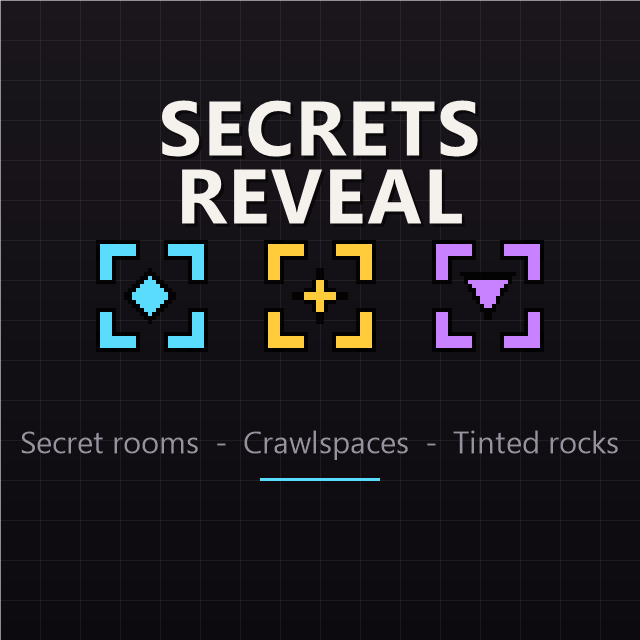
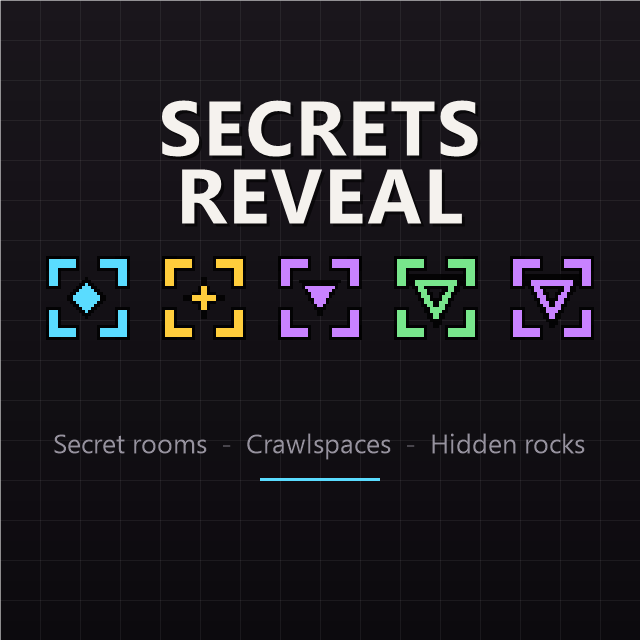
Refresh the Workshop art for the five-marker set
The preview still advertised three markers. Regenerate it from the current
sheet, reading the tile count from the sheet width so adding a marker no
longer needs an edit here, and auto-shrink the subtitle so rewording it
cannot silently clip off the edge.

Replace the gallery captures with the new side-by-side pairs, including one
showing the crawlspace prediction end to end. Repoint the README at them: it
had been pointing at files that an earlier `git add -A` quietly deleted, so
both images were broken on GitHub.

Changed region(s): [[0.0625, 0.375, 0.9375, 0.5625], [0.375, 0.6562, 0.9688, 0.7188], [0.0312, 0.6562, 0.3438, 0.7188]]

diff --git a/README.md b/README.md
@@ -5,10 +5,15 @@ A Binding of Isaac: Repentance mod that reveals what the floor is hiding.
 **[Subscribe on the Steam Workshop](https://steamcommunity.com/sharedfiles/filedetails/?id=3780562693)**
 — or install manually, see below.
 
-![Markers over tinted rocks, super tinted rocks and crawlspaces](workshop/screenshot-2-on.png)
+![The mod marking the rock a crawlspace is buried under, then the crawlspace it uncovers](workshop/screenshot-1-crawlspace-under-rock.jpg)
 
-*Same room [without the mod](workshop/screenshot-1-off.png). Note the `?` icons
-that appear on the minimap: those are the secret rooms being revealed.*
+*Top: the hollow violet marker naming the rock before anything is broken.
+Bottom: the crawlspace that was under it.*
+
+![Markers over tinted rocks, super tinted rocks and crawlspaces](workshop/screenshot-2-markers.jpg)
+
+*Same room without the mod and with it. The `?` icons appearing on the minimap
+are the secret rooms being revealed.*
 
 ## What it does
 
@@ -133,7 +138,7 @@ Secrets_reveal/
 │   └── make_preview.ps1                  regenerates the Workshop thumbnail
 └── workshop/                             Workshop assets, NOT shipped in the mod
     ├── preview.png                       640x640 thumbnail
-    └── screenshot-*.png                  gallery images
+    └── screenshot-*.jpg                  gallery images
 ```
 
 To change the marker art, edit `tools/make_markers.ps1` and run:
